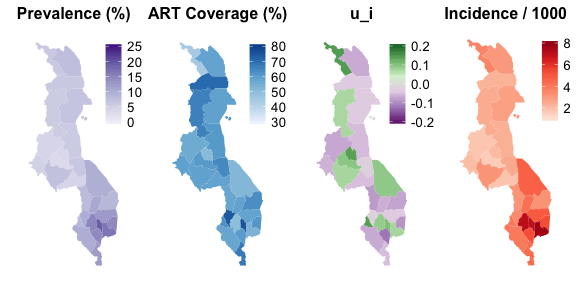
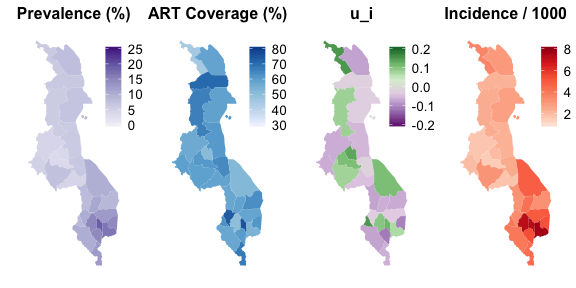
remove dependency on rgdal. use 'sf' instead.

diff --git a/README.md b/README.md
@@ -47,12 +47,25 @@ Load `hivmappr`.
 
 ``` r
 library(hivmappr)
+#> Loading required package: Rcpp
+#> Loading required package: rhandsontable
+#> Loading required package: maps
+#> Loading required package: mapproj
+#> Loading required package: ggplot2
+#> Loading required package: ggridges
+#> 
+#> Attaching package: 'ggridges'
+#> The following object is masked from 'package:ggplot2':
+#> 
+#>     scale_discrete_manual
+#> Loading required package: gridExtra
 ```
 
 Load other packages for analysis.
 
 ``` r
-library(rgdal)
+library(sf)
+library(sp)
 library(magrittr)
 library(rstan)
 library(data.table)
@@ -69,11 +82,7 @@ Shapefile is from the [DHS Spatial Data
 Repository](https://spatialdata.dhsprogram.com/boundaries/#view=map&countryId=MW&surveyId=483&level=2).
 
 ``` r
-sh <- readOGR(system.file("extdata", "mwsh", package="hivmappr"))
-#> OGR data source with driver: ESRI Shapefile 
-#> Source: "/Users/jeff/Downloads/hivmappr/inst/extdata/mwsh", layer: "districts"
-#> with 28 features
-#> It has 3 fields
+sh <- read_sf(system.file("extdata", "mwsh", package="hivmappr")) %>% as_Spatial
 plot(sh)
 ```
 
@@ -138,19 +147,23 @@ fit <- sampling(hivmappr:::stanmodels$incidence_rita,
 #> SAMPLING FOR MODEL 'incidence_rita' NOW (CHAIN 1).
 #> Rejecting initial value:
 #>   Error evaluating the log probability at the initial value.
-#> Exception: binomial_lpmf: Probability parameter[1] is 9.74753e+07, but must be in the interval [0, 1]  (in 'model_incidence_rita' at line 145)
+#> Exception: binomial_lpmf: Probability parameter[1] is -0.0322892, but must be in the interval [0, 1]  (in 'model_incidence_rita' at line 145)
 #> 
 #> Rejecting initial value:
 #>   Error evaluating the log probability at the initial value.
-#> Exception: binomial_lpmf: Probability parameter[1] is 6.01372e+07, but must be in the interval [0, 1]  (in 'model_incidence_rita' at line 145)
+#> Exception: binomial_lpmf: Probability parameter[1] is -2023.53, but must be in the interval [0, 1]  (in 'model_incidence_rita' at line 145)
 #> 
 #> Rejecting initial value:
 #>   Error evaluating the log probability at the initial value.
-#> Exception: binomial_lpmf: Probability parameter[1] is 92603, but must be in the interval [0, 1]  (in 'model_incidence_rita' at line 145)
+#> Exception: binomial_lpmf: Probability parameter[1] is 3.05437e+11, but must be in the interval [0, 1]  (in 'model_incidence_rita' at line 145)
+#> 
+#> Rejecting initial value:
+#>   Error evaluating the log probability at the initial value.
+#> Exception: binomial_lpmf: Probability parameter[1] is 1.60281e+06, but must be in the interval [0, 1]  (in 'model_incidence_rita' at line 145)
 #> 
 #> 
-#> Gradient evaluation took 0.000165 seconds
-#> 1000 transitions using 10 leapfrog steps per transition would take 1.65 seconds.
+#> Gradient evaluation took 0.000382 seconds
+#> 1000 transitions using 10 leapfrog steps per transition would take 3.82 seconds.
 #> Adjust your expectations accordingly!
 #> 
 #> 
@@ -167,19 +180,39 @@ fit <- sampling(hivmappr:::stanmodels$incidence_rita,
 #> Iteration: 1800 / 2000 [ 90%]  (Sampling)
 #> Iteration: 2000 / 2000 [100%]  (Sampling)
 #> 
-#>  Elapsed Time: 6.37376 seconds (Warm-up)
-#>                5.42811 seconds (Sampling)
-#>                11.8019 seconds (Total)
+#>  Elapsed Time: 5.09505 seconds (Warm-up)
+#>                2.63233 seconds (Sampling)
+#>                7.72738 seconds (Total)
 #> 
 #> 
 #> SAMPLING FOR MODEL 'incidence_rita' NOW (CHAIN 2).
 #> Rejecting initial value:
 #>   Error evaluating the log probability at the initial value.
-#> Exception: binomial_lpmf: Probability parameter[1] is -8448.16, but must be in the interval [0, 1]  (in 'model_incidence_rita' at line 145)
+#> Exception: binomial_lpmf: Probability parameter[1] is -846.742, but must be in the interval [0, 1]  (in 'model_incidence_rita' at line 145)
+#> 
+#> Rejecting initial value:
+#>   Error evaluating the log probability at the initial value.
+#> Exception: binomial_lpmf: Probability parameter[1] is 46970.4, but must be in the interval [0, 1]  (in 'model_incidence_rita' at line 145)
+#> 
+#> Rejecting initial value:
+#>   Error evaluating the log probability at the initial value.
+#> Exception: binomial_lpmf: Probability parameter[1] is -959.267, but must be in the interval [0, 1]  (in 'model_incidence_rita' at line 145)
+#> 
+#> Rejecting initial value:
+#>   Error evaluating the log probability at the initial value.
+#> Exception: binomial_lpmf: Probability parameter[1] is 1.96301e+06, but must be in the interval [0, 1]  (in 'model_incidence_rita' at line 145)
+#> 
+#> Rejecting initial value:
+#>   Error evaluating the log probability at the initial value.
+#> Exception: binomial_lpmf: Probability parameter[3] is 16.3559, but must be in the interval [0, 1]  (in 'model_incidence_rita' at line 145)
+#> 
+#> Rejecting initial value:
+#>   Error evaluating the log probability at the initial value.
+#> Exception: binomial_lpmf: Probability parameter[1] is -6.17799e+06, but must be in the interval [0, 1]  (in 'model_incidence_rita' at line 145)
 #> 
 #> 
-#> Gradient evaluation took 7.8e-05 seconds
-#> 1000 transitions using 10 leapfrog steps per transition would take 0.78 seconds.
+#> Gradient evaluation took 5.2e-05 seconds
+#> 1000 transitions using 10 leapfrog steps per transition would take 0.52 seconds.
 #> Adjust your expectations accordingly!
 #> 
 #> 
@@ -196,15 +229,15 @@ fit <- sampling(hivmappr:::stanmodels$incidence_rita,
 #> Iteration: 1800 / 2000 [ 90%]  (Sampling)
 #> Iteration: 2000 / 2000 [100%]  (Sampling)
 #> 
-#>  Elapsed Time: 6.86799 seconds (Warm-up)
-#>                4.46233 seconds (Sampling)
-#>                11.3303 seconds (Total)
+#>  Elapsed Time: 4.49742 seconds (Warm-up)
+#>                3.17305 seconds (Sampling)
+#>                7.67047 seconds (Total)
 #> 
 #> 
 #> SAMPLING FOR MODEL 'incidence_rita' NOW (CHAIN 3).
 #> 
-#> Gradient evaluation took 7.8e-05 seconds
-#> 1000 transitions using 10 leapfrog steps per transition would take 0.78 seconds.
+#> Gradient evaluation took 5e-05 seconds
+#> 1000 transitions using 10 leapfrog steps per transition would take 0.5 seconds.
 #> Adjust your expectations accordingly!
 #> 
 #> 
@@ -221,15 +254,15 @@ fit <- sampling(hivmappr:::stanmodels$incidence_rita,
 #> Iteration: 1800 / 2000 [ 90%]  (Sampling)
 #> Iteration: 2000 / 2000 [100%]  (Sampling)
 #> 
-#>  Elapsed Time: 6.49051 seconds (Warm-up)
-#>                4.68868 seconds (Sampling)
-#>                11.1792 seconds (Total)
+#>  Elapsed Time: 4.5774 seconds (Warm-up)
+#>                3.25214 seconds (Sampling)
+#>                7.82954 seconds (Total)
 #> 
 #> 
 #> SAMPLING FOR MODEL 'incidence_rita' NOW (CHAIN 4).
 #> 
-#> Gradient evaluation took 7.1e-05 seconds
-#> 1000 transitions using 10 leapfrog steps per transition would take 0.71 seconds.
+#> Gradient evaluation took 5.8e-05 seconds
+#> 1000 transitions using 10 leapfrog steps per transition would take 0.58 seconds.
 #> Adjust your expectations accordingly!
 #> 
 #> 
@@ -246,10 +279,10 @@ fit <- sampling(hivmappr:::stanmodels$incidence_rita,
 #> Iteration: 1800 / 2000 [ 90%]  (Sampling)
 #> Iteration: 2000 / 2000 [100%]  (Sampling)
 #> 
-#>  Elapsed Time: 6.73428 seconds (Warm-up)
-#>                4.03998 seconds (Sampling)
-#>                10.7743 seconds (Total)
-#> Warning: There were 2 divergent transitions after warmup. Increasing adapt_delta above 0.95 may help. See
+#>  Elapsed Time: 4.94276 seconds (Warm-up)
+#>                2.70122 seconds (Sampling)
+#>                7.64398 seconds (Total)
+#> Warning: There were 6 divergent transitions after warmup. Increasing adapt_delta above 0.95 may help. See
 #> http://mc-stan.org/misc/warnings.html#divergent-transitions-after-warmup
 #> Warning: Examine the pairs() plot to diagnose sampling problems
 ```
@@ -291,22 +324,33 @@ th <- function(title)
 
 panA <- ggplot(est[param == "rho_i"], aes(map_id = district)) +
   scale_fill_distiller(element_blank(), palette="Purples", direction=1,
-                       lim=c(0, 0.25), labels=function(x) round(100*x)) +
+                       limits=c(0, 0.25), labels=function(x) round(100*x)) +
   th("Prevalence (%)")
 panB <- ggplot(est[param == "alpha_i"], aes(map_id = district)) +
   scale_fill_distiller(element_blank(), palette="Blues", direction=1,
-                       lim=c(0.3, 0.8), labels=function(x) round(100*x)) +
+                       limits=c(0.3, 0.8), labels=function(x) round(100*x)) +
   th("ART Coverage (%)")
 panC <- ggplot(est[param == "u_i"], aes(map_id = district)) +
   scale_fill_distiller(element_blank(), palette="PRGn", direction=1,
-                       lim=c(-0.2, 0.2)) +
+                       limits=c(-0.2, 0.2)) +
   th("u_i")
 panD <- ggplot(est[param == "lambda_i"], aes(map_id = district)) +
   scale_fill_distiller(element_blank(), palette="Reds", direction=1,
-                       lim=c(1, 8)/1e3, labels=function(x) round(1000*x)) +
+                       limits=c(1, 8)/1e3, labels=function(x) round(1000*x)) +
   th("Incidence / 1000")  
 
 grid.arrange(panA, panB, panC, panD, ncol=4)
+#> Warning in seq.default(.limits[1], .limits[2], length = guide$nbin):
+#> partial argument match of 'length' to 'length.out'
+
+#> Warning in seq.default(.limits[1], .limits[2], length = guide$nbin):
+#> partial argument match of 'length' to 'length.out'
+
+#> Warning in seq.default(.limits[1], .limits[2], length = guide$nbin):
+#> partial argument match of 'length' to 'length.out'
+
+#> Warning in seq.default(.limits[1], .limits[2], length = guide$nbin):
+#> partial argument match of 'length' to 'length.out'
 ```
 
 <img src="man/figures/README-maps-1.png" width="100%" />
@@ -317,6 +361,34 @@ estimates.
 ``` r
 samp <- as.matrix(fit, c("rho_i", "alpha_i", "u_i", "lambda_i", "infections_i")) %>%
   abind(along=0)
+#> Warning in seq.default(from = 1, len = along - 1): partial argument match
+#> of 'len' to 'length.out'
+#> Warning in seq.default(to = N - 1, len = N - along): partial argument match
+#> of 'len' to 'length.out'
+#> Warning in seq.default(len = N): partial argument match of 'len' to
+#> 'length.out'
+#> Warning in seq.default(along = arg.names): partial argument match of
+#> 'along' to 'along.with'
+#> Warning in seq.default(len = length(arg.list)): partial argument match of
+#> 'len' to 'length.out'
+#> Warning in seq.default(along = perm): partial argument match of 'along' to
+#> 'along.with'
+
+#> Warning in seq.default(along = perm): partial argument match of 'along' to
+#> 'along.with'
+#> Warning in seq.default(len = ncol(arg.dim)): partial argument match of
+#> 'len' to 'length.out'
+#> Warning in seq.default(len = N): partial argument match of 'len' to
+#> 'length.out'
+#> Warning in seq.default(along = arg.names): partial argument match of
+#> 'along' to 'along.with'
+
+#> Warning in seq.default(along = arg.names): partial argument match of
+#> 'along' to 'along.with'
+#> Warning in seq.default(len = length(arg.names)): partial argument match of
+#> 'len' to 'length.out'
+#> Warning in seq.default(along = perm): partial argument match of 'along' to
+#> 'along.with'
 names(dimnames(samp)) <- c("model", NA, "param")
 samp <- melt(samp) %>% data.table
 samp$district_idx <- as.integer(sub(".*\\[([0-9]+)\\]", "\\1", samp$param))
@@ -375,10 +447,10 @@ panD <- ggplot(data=samp[param == "infections_i"],
   th
 
 grid.arrange(panA, panB, panC, panD, ncol=4, widths=c(1.35, 1, 1, 1))
-#> Picking joint bandwidth of 0.000968
-#> Picking joint bandwidth of 0.00665
-#> Picking joint bandwidth of 0.0288
-#> Picking joint bandwidth of 0.0297
+#> Picking joint bandwidth of 0.000975
+#> Picking joint bandwidth of 0.00671
+#> Picking joint bandwidth of 0.0293
+#> Picking joint bandwidth of 0.0301
 ```
 
 <img src="man/figures/README-district posterior-1.png" width="100%" />
@@ -407,31 +479,31 @@ dcast(est, district+region ~ label, value.var="str") %>% knitr::kable()
 
 | district   | region   | Prevalence (%)    | ART coverage (%) | Incidence (per 1000) | New infections    |
 | :--------- | :------- | :---------------- | :--------------- | :------------------- | :---------------- |
-| Chitipa    | Northern | 6.1 (5.1, 7.2)    | 44 (37, 53)      | 3.6 (1.2, 9.5)       | 400 (100, 1000)   |
-| Karonga    | Northern | 7.6 (6.6, 8.6)    | 58 (51, 66)      | 3.0 (0.7, 6.1)       | 500 (100, 1000)   |
-| Rumphi     | Northern | 6.3 (5.6, 7.1)    | 70 (62, 79)      | 2.2 (0.6, 4.8)       | 200 (100, 500)    |
-| Nkhata Bay | Northern | 6.8 (6.0, 7.7)    | 59 (51, 67)      | 2.8 (0.7, 6.2)       | 300 (100, 800)    |
-| Mzimba     | Northern | 5.9 (5.2, 6.7)    | 66 (58, 74)      | 2.4 (0.8, 5.2)       | 1300 (400, 2800)  |
-| Likoma     | Northern | 8.3 (7.1, 9.7)    | 62 (53, 72)      | 3.4 (0.9, 7.5)       | 0 (0, 0)          |
-| Nkhotakota | Central  | 5.9 (5.2, 6.8)    | 61 (53, 69)      | 2.3 (0.6, 4.9)       | 400 (100, 900)    |
-| Kasungu    | Central  | 4.3 (3.7, 5.0)    | 56 (48, 64)      | 1.7 (0.5, 3.4)       | 600 (200, 1300)   |
-| Ntchisi    | Central  | 3.8 (3.2, 4.4)    | 51 (44, 59)      | 2.0 (0.7, 5.1)       | 300 (100, 700)    |
+| Chitipa    | Northern | 6.1 (5.1, 7.2)    | 44 (37, 53)      | 3.5 (1.2, 9.0)       | 400 (100, 1000)   |
+| Karonga    | Northern | 7.6 (6.6, 8.7)    | 58 (51, 66)      | 2.9 (0.8, 6.1)       | 500 (100, 1000)   |
+| Rumphi     | Northern | 6.2 (5.6, 7.1)    | 71 (62, 79)      | 2.2 (0.6, 4.8)       | 200 (100, 500)    |
+| Nkhata Bay | Northern | 6.8 (5.9, 7.8)    | 59 (51, 67)      | 2.7 (0.8, 5.8)       | 300 (100, 700)    |
+| Mzimba     | Northern | 5.9 (5.2, 6.7)    | 66 (58, 74)      | 2.4 (0.8, 5.3)       | 1300 (500, 2900)  |
+| Likoma     | Northern | 8.3 (7.0, 9.7)    | 63 (53, 73)      | 3.3 (0.9, 7.5)       | 0 (0, 0)          |
+| Nkhotakota | Central  | 5.9 (5.2, 6.8)    | 61 (53, 69)      | 2.3 (0.6, 4.8)       | 400 (100, 900)    |
+| Kasungu    | Central  | 4.2 (3.7, 4.9)    | 56 (48, 64)      | 1.7 (0.4, 3.4)       | 600 (200, 1300)   |
+| Ntchisi    | Central  | 3.8 (3.2, 4.4)    | 51 (43, 60)      | 2.0 (0.7, 5.4)       | 300 (100, 700)    |
 | Dowa       | Central  | 3.3 (2.9, 3.9)    | 61 (52, 69)      | 1.5 (0.5, 3.6)       | 500 (200, 1300)   |
-| Mchinji    | Central  | 5.0 (4.4, 5.6)    | 59 (52, 67)      | 1.9 (0.5, 4.1)       | 600 (100, 1200)   |
-| Salima     | Central  | 6.4 (5.6, 7.2)    | 64 (56, 72)      | 2.5 (0.6, 5.5)       | 500 (100, 1100)   |
-| Lilongwe   | Central  | 7.3 (6.4, 8.2)    | 59 (52, 66)      | 3.1 (1.4, 5.8)       | 3900 (1700, 7300) |
-| Dedza      | Central  | 4.4 (3.8, 5.1)    | 58 (50, 66)      | 1.7 (0.5, 3.5)       | 600 (200, 1300)   |
-| Ntcheu     | Central  | 8.0 (6.9, 9.2)    | 57 (50, 66)      | 3.1 (0.8, 6.2)       | 800 (200, 1600)   |
-| Mangochi   | Southern | 9.9 (8.6, 11.2)   | 52 (45, 59)      | 4.7 (1.9, 9.7)       | 2000 (800, 4200)  |
-| Machinga   | Southern | 8.6 (7.6, 9.7)    | 63 (56, 71)      | 3.2 (0.8, 6.4)       | 800 (200, 1700)   |
-| Balaka     | Southern | 10.8 (9.4, 12.2)  | 58 (51, 67)      | 4.2 (1.1, 8.8)       | 700 (200, 1400)   |
-| Zomba      | Southern | 12.5 (11.2, 14.1) | 58 (52, 65)      | 5.0 (1.5, 9.6)       | 1700 (500, 3300)  |
-| Neno       | Southern | 10.1 (9.0, 11.3)  | 74 (65, 82)      | 3.4 (0.9, 7.4)       | 200 (100, 500)    |
-| Mwanza     | Southern | 8.4 (7.4, 9.5)    | 63 (55, 71)      | 4.0 (1.3, 10.5)      | 200 (100, 600)    |
-| Blantyre   | Southern | 14.8 (13.1, 16.7) | 50 (44, 56)      | 7.1 (3.1, 13.2)      | 4200 (1900, 7900) |
-| Phalombe   | Southern | 14.5 (12.8, 16.4) | 61 (54, 70)      | 5.4 (1.4, 10.8)      | 900 (200, 1700)   |
-| Chiradzulu | Southern | 19.0 (17.3, 20.8) | 75 (69, 82)      | 7.1 (2.5, 17.0)      | 1000 (300, 2300)  |
-| Mulanje    | Southern | 16.6 (14.9, 18.6) | 53 (47, 59)      | 7.6 (3.1, 14.9)      | 1900 (800, 3800)  |
-| Thyolo     | Southern | 14.6 (12.9, 16.4) | 60 (53, 67)      | 5.3 (1.2, 10.4)      | 1600 (400, 3200)  |
-| Chikwawa   | Southern | 10.0 (8.6, 11.5)  | 57 (50, 66)      | 3.9 (1.0, 8.1)       | 900 (200, 1900)   |
-| Nsanje     | Southern | 12.3 (11.0, 13.8) | 67 (60, 75)      | 4.4 (1.2, 9.3)       | 500 (100, 1100)   |
+| Mchinji    | Central  | 4.9 (4.3, 5.6)    | 59 (52, 67)      | 1.9 (0.5, 4.1)       | 600 (100, 1200)   |
+| Salima     | Central  | 6.4 (5.6, 7.2)    | 64 (56, 72)      | 2.5 (0.6, 5.2)       | 500 (100, 1000)   |
+| Lilongwe   | Central  | 7.3 (6.4, 8.2)    | 59 (52, 67)      | 3.1 (1.3, 5.8)       | 3900 (1700, 7300) |
+| Dedza      | Central  | 4.4 (3.8, 5.0)    | 58 (51, 66)      | 1.7 (0.5, 3.6)       | 600 (200, 1300)   |
+| Ntcheu     | Central  | 8.0 (6.9, 9.2)    | 57 (50, 66)      | 3.2 (0.9, 6.3)       | 800 (200, 1600)   |
+| Mangochi   | Southern | 9.9 (8.5, 11.2)   | 52 (46, 60)      | 4.8 (1.9, 10.4)      | 2100 (800, 4400)  |
+| Machinga   | Southern | 8.6 (7.6, 9.6)    | 63 (56, 71)      | 3.2 (0.8, 6.6)       | 900 (200, 1800)   |
+| Balaka     | Southern | 10.8 (9.4, 12.2)  | 59 (52, 67)      | 4.2 (1.1, 8.7)       | 700 (200, 1400)   |
+| Zomba      | Southern | 12.6 (11.2, 14.0) | 58 (52, 65)      | 5.0 (1.6, 9.7)       | 1700 (600, 3400)  |
+| Neno       | Southern | 10.1 (9.0, 11.4)  | 73 (65, 82)      | 3.4 (0.9, 7.6)       | 200 (100, 500)    |
+| Mwanza     | Southern | 8.4 (7.4, 9.5)    | 63 (55, 71)      | 4.0 (1.4, 10.5)      | 200 (100, 600)    |
+| Blantyre   | Southern | 14.8 (13.0, 16.5) | 50 (45, 57)      | 7.1 (3.3, 13.1)      | 4300 (2000, 7800) |
+| Phalombe   | Southern | 14.5 (12.7, 16.4) | 61 (54, 70)      | 5.3 (1.3, 10.5)      | 900 (200, 1700)   |
+| Chiradzulu | Southern | 18.9 (17.4, 20.8) | 75 (69, 82)      | 7.2 (2.5, 17.9)      | 1000 (300, 2500)  |
+| Mulanje    | Southern | 16.6 (14.9, 18.5) | 53 (48, 59)      | 7.6 (3.0, 15.2)      | 1900 (800, 3800)  |
+| Thyolo     | Southern | 14.6 (13.0, 16.3) | 60 (54, 67)      | 5.3 (1.3, 10.4)      | 1600 (400, 3200)  |
+| Chikwawa   | Southern | 10.0 (8.5, 11.6)  | 57 (49, 67)      | 4.0 (1.0, 8.3)       | 900 (200, 1900)   |
+| Nsanje     | Southern | 12.3 (11.1, 13.7) | 67 (60, 75)      | 4.3 (1.1, 9.0)       | 500 (100, 1100)   |
